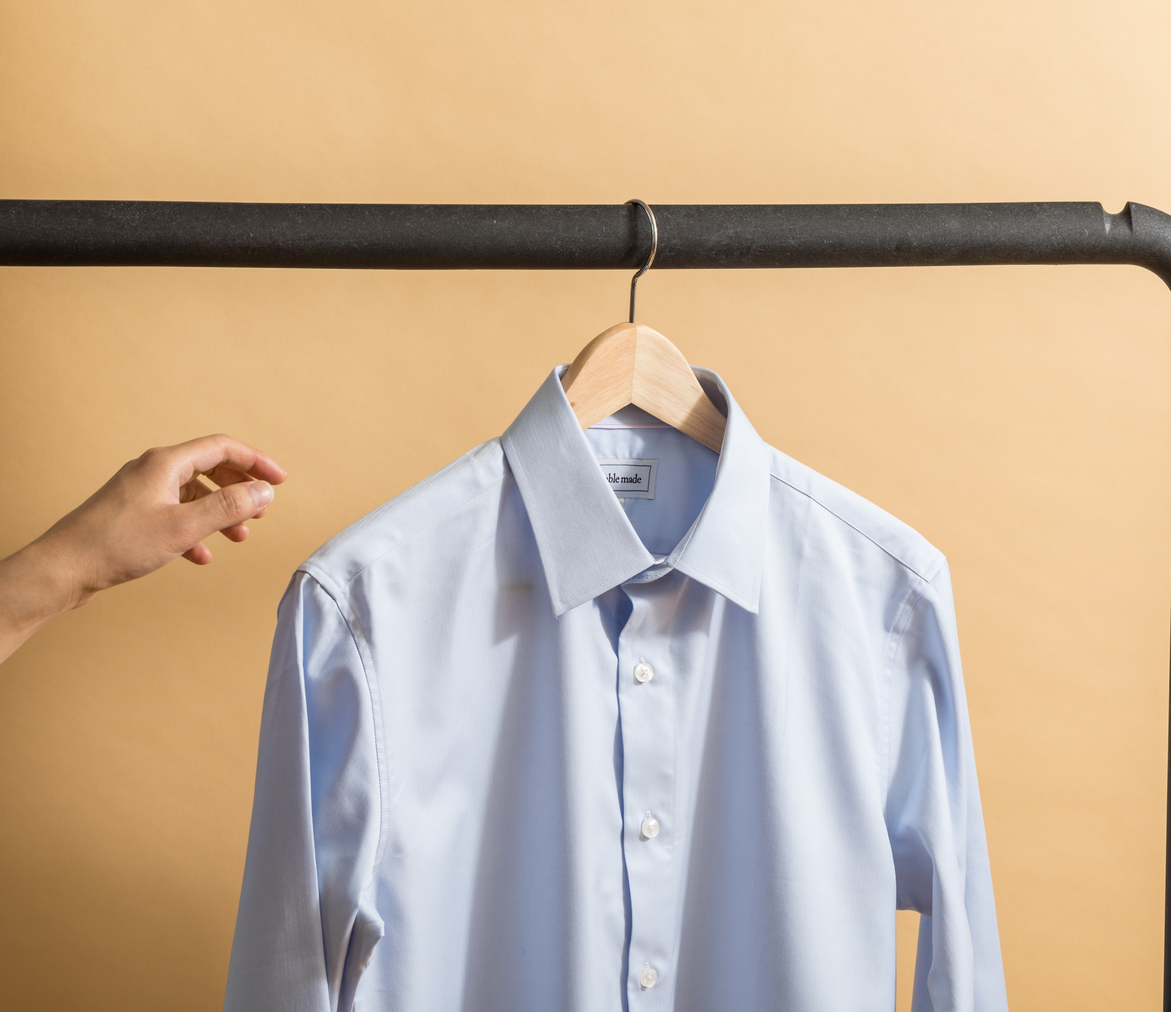
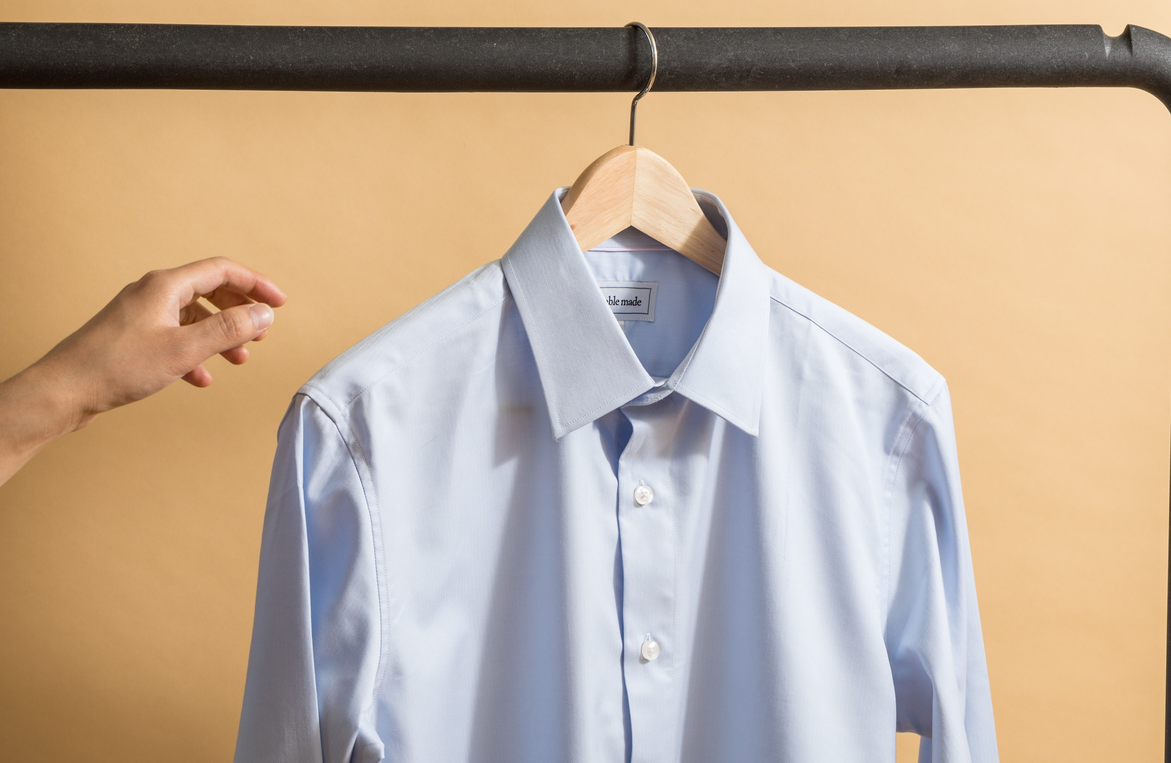
done with the men's wear

diff --git a/src/components/Layout/Main/Collections/Men's Wear/Men.js b/src/components/Layout/Main/Collections/Men's Wear/Men.js
@@ -9,7 +9,7 @@ import men7 from "../../../../../assets/men7.jpg";
 import men8 from "../../../../../assets/men8.jpg";
 import men9 from "../../../../../assets/men9.jpg";
 import men10 from "../../../../../assets/men10.jpg";
-// import men11 from "../../../../../assets/men11.jpg";
+import men11 from "../../../../../assets/men11.jpg";
 // import men12 from "../../../../../assets/men12.jpg";
 import MensWear from "../Men's Wear/MensWear";
 
@@ -18,102 +18,105 @@ const dummy_Wears = [
     id: 1,
     img: men1,
     name: "Men's wear",
-    amount: 25.7,
-    brand: "Gucci & Gabbanna",
-    reviews: "41k customers review",
+    amount: 78.71,
+    description: "Silky Top",
+    brand: "Fendi",
+    reviews: "(41k) customers review",
   },
   {
     id: 2,
     img: men2,
     name: "Men's wear",
-    amount: 25.7,
-    brand: "Gucci & Gabbanna",
-    reviews: "41k customers review",
+    amount: 90.35,
+    description: "Hoods and Shorts",
+    brand: "Dolce & Gabbana",
+    reviews: "(41k) customers review",
   },
   {
     id: 3,
     img: men3,
     name: "Men's wear",
-    amount: 25.7,
-    brand: "Gucci & Gabbanna",
-    reviews: "41k customers review",
+    amount: 45.56,
+    description: "Fits Top",
+    brand: "Dior",
+    reviews: "(41k) customers review",
   },
   {
     id: 4,
     img: men4,
     name: "Men's wear",
-    amount: 25.7,
-    brand: "Gucci & Gabbanna",
-    reviews: "41k customers review",
+    amount: 65.62,
+    description: "Corporate Shirt",
+    brand: "Valentino",
+    reviews: "(41k) customers review",
   },
   {
     id: 5,
     img: men5,
     name: "Men's wear",
-    amount: 25.7,
-    brand: "Gucci & Gabbanna",
-    reviews: "41k customers review",
+    amount: 75.2,
+    description: "Soft Blue Top",
+    brand: "Prada",
+    reviews: "(41k) customers review",
   },
   {
     id: 6,
     img: men6,
     name: "Men's wear",
-    amount: 25.7,
-    brand: "Gucci & Gabbanna",
-    reviews: "41k customers review",
+    amount: 180.8,
+    description: "Jean and Jacket",
+    brand: "Lacoste",
+    reviews: "(41k) customers review",
   },
   {
     id: 7,
     img: men7,
     name: "Men's wear",
-    amount: 25.7,
-    brand: "Gucci & Gabbanna",
-    reviews: "41k customers review",
+    amount: 35.99,
+    description: "Sheer Gray Top",
+    brand: "Givenchy",
+    reviews: "(41k) customers review",
   },
   {
     id: 8,
     img: men8,
     name: "Men's wear",
-    amount: 25.7,
-    brand: "Gucci & Gabbanna",
-    reviews: "41k customers review",
+    amount: 50.8,
+    description: "Thick black Top",
+    brand: "Louis Vuitton",
+    reviews: "(41k) customers review",
   },
   {
     id: 9,
     img: men9,
     name: "Men's wear",
-    amount: 25.7,
-    brand: "Gucci & Gabbanna",
-    reviews: "41k customers review",
+    amount: 200.4,
+    description: "Nice Brown Suit",
+    brand: "Burberry",
+    reviews: "(41k) customers review",
   },
   {
     id: 10,
     img: men10,
     name: "Men's wear",
-    amount: 25.7,
-    brand: "Gucci & Gabbanna",
-    reviews: "41k customers review",
+    amount: 105.79,
+    description: "Jacket and  Top",
+    brand: "Armani",
+    reviews: "(41k) customers review",
   },
-  // {
-  //   id: 11,
-  //   img: men11,
-  //   name: "Men's wear",
-  //   amount: 25.7,
-  //   brand: "Gucci & Gabbanna",
-  //   reviews: "41k customers review",
-  // },
-  // {
-  //   id: 12,
-  //   img: men12,
-  //   name: "Men's wear",
-  //   amount: 25.7,
-  //   brand: "Gucci & Gabbanna",
-  //   reviews: "41k customers review",
-  // },
+  {
+    id: 11,
+    img: men11,
+    name: "Men's wear",
+    amount: 60.92,
+    description: "Thin Top",
+    brand: "H&M",
+    reviews: "(41k) customers review",
+  },
 ];
 const Men = () => {
   return (
-    <div>
+    <div className="overflow-hidden w-full">
       <MensWear wears={dummy_Wears} />
     </div>
   );

diff --git a/src/components/Layout/Main/Collections/Arrivals/Arrival.js b/src/components/Layout/Main/Collections/Arrivals/Arrival.js
@@ -1,10 +1,88 @@
-import React from "react";
+import React, { useState } from "react";
 import Men from "../Men's Wear/Men";
+import Women from "../Women's Wear/Women";
 
 const Arrival = () => {
+  const [tab, setTab] = useState(1);
+
+  const handleTab = (tabs) => {
+    setTab(tabs);
+  };
   return (
     <div className="">
-      <Men />
+      <h2 className="text-[#484848] text-[2.85rem] text-center font-normal pt-[4rem] ">
+        New Arrivals
+      </h2>
+      <p className="text-[#8A8A8A] text-[1rem] text-center font-normal leading-[1.85rem] py-[0.5rem] mb-[2rem]">
+        Lorem ipsum dolor sit amet, consectetur adipiscing elit. Scelerisque
+        duis
+        <br /> ultrices sollicitudin aliquam sem. Scelerisque duis ultrices
+        sollicitudin{" "}
+      </p>
+      <div className=" max-w-[75rem] m-auto">
+        <ul className="flex justify-around">
+          <li
+            onClick={() => {
+              handleTab(1);
+            }}
+            className={
+              tab === 1
+                ? "active bg-black rounded-lg px-8 py-2 cursor-pointer text-[1rem] text-white"
+                : "bg-[#FAFAFA] text-[#8A8A8A] px-8 py-2 rounded-lg"
+            }
+            // style={{ marginRight: "5rem" }}
+          >
+            Men's Fashion
+          </li>
+
+          <li
+            onClick={() => {
+              handleTab(2);
+            }}
+            className={
+              tab === 2
+                ? "active bg-black rounded-lg px-8 py-2 cursor-pointer text-[1rem] text-white"
+                : "bg-[#FAFAFA] text-[#8A8A8A] px-8 py-2 rounded-lg"
+            }
+            // style={{ marginRight: "5rem" }}
+          >
+            Women's Fashion
+          </li>
+
+          <li
+            onClick={() => {
+              handleTab(3);
+            }}
+            className={
+              tab === 3
+                ? "active bg-black rounded-lg px-8 py-2 cursor-pointer text-[1rem] text-white"
+                : "bg-[#FAFAFA] text-[#8A8A8A] px-8 py-2 rounded-lg"
+            }
+          >
+            Women's Accessories
+          </li>
+
+          <li
+            onClick={() => {
+              handleTab(4);
+            }}
+            className={
+              tab === 4
+                ? "active bg-black rounded-lg px-8 py-2 cursor-pointer text-[1rem] text-white"
+                : "bg-[#FAFAFA] text-[#8A8A8A] px-8 py-2 rounded-lg"
+            }
+          >
+            Men's Accessories
+          </li>
+        </ul>
+
+        <div>
+          {tab === 1 && <Men />}
+          {tab === 2 && <Women />}
+          {/* {tab === 3 ? <Men /> : ""}
+        {tab === 4 ? "<Men />" : ""} */}
+        </div>
+      </div>
     </div>
   );
 };

diff --git a/src/components/Layout/Main/Collections/Men's Wear/MensWear.js b/src/components/Layout/Main/Collections/Men's Wear/MensWear.js
@@ -1,20 +1,55 @@
 import React from "react";
 import Card from "../../../../UI/Cards";
+import { CiStar } from "react-icons/ci";
 
 const MensWear = (props) => {
   return (
-    <section>
-      <ul className="grid grid-cols-3 gap-[2rem] place-items-center">
+    <section className="max-w-[70rem] m-auto  my-[2rem]">
+      <ul className="grid grid-cols-3 gap-[5rem]  place-items-center">
         {props.wears.map((items) => (
           <Card
             key={items.id}
-            className="w-[25rem] h-[28rem] bg-white shadow-xl"
+            className="w-[21rem] h-[24rem] bg-white shadow-2xl rounded-2xl "
           >
             <img
               src={items.img}
               alt="men's wears"
-              className="w-[20rem] h-[15rem] mx-auto p-5 rounded-lg"
+              className="w-[20rem] h-[15rem] mx-auto px-5 rounded-3xl object-contain"
             />
+            <div className="flex justify-between pr-[2rem]">
+              <h1 className="px-[2rem] -mt-5 text-[1.25rem] text-[#484848] font-medium leading-normal">
+                {items.description}
+              </h1>
+              <div className="flex -mt-3">
+                <CiStar className="text-xl" />
+                <CiStar className="text-xl" />
+                <CiStar className="text-xl" />
+              </div>
+            </div>
+
+            <p className="text-[#8A8A8A] px-[2rem] text-[0.75rem] font-medium">
+              {items.brand}
+            </p>
+            <div className="flex my-4 space-x-[1.7rem]">
+              <p className="px-[2rem] text-[0.75rem] text-[#484848] font-medium">
+                {items.reviews}
+              </p>
+              <button className="px-5 rounded-2xl -m-2 bg-[#484848] text-white ">
+                Add +
+              </button>
+            </div>
+
+            <div className="flex space-x-[8rem] mt-7">
+              <h4 className="px-[2rem] text-[#484848] text-[1.5rem] tracking-[-0.015rem] font-medium ">
+                ${items.amount}
+              </h4>
+              <select className="border-2 border-black cursor-pointer rounded-md">
+                <option value="s">s</option>
+                <option value="m">m</option>
+                <option value="xl">xl</option>
+                <option value="xxl">xxl</option>
+              </select>
+            </div>
           </Card>
         ))}
       </ul>

diff --git a/src/App.js b/src/App.js
@@ -1,9 +1,10 @@
 import "./App.css";
 import Header from "./components/Layout/Header/Header";
 import Logo from "./components/Layout/Header/Logo";
-import Men from "./components/Layout/Main/Collections/Men's Wear/Men";
+// import Men from "./components/Layout/Main/Collections/Men's Wear/Men";
 import Main from "./components/Layout/Main/Main";
 import Nav from "./components/Layout/Navbar/Nav";
+import Arrival from "./components/Layout/Main/Collections/Arrivals/Arrival";
 
 function App() {
   return (
@@ -14,7 +15,8 @@ function App() {
         <Header />
         <Logo />
         <Main />
-        <Men />
+        <Arrival />
+        {/* <Men /> */}
       </div>
     </>
   );

diff --git a/src/components/Layout/Main/Collections/Women's Wear/Women.js b/src/components/Layout/Main/Collections/Women's Wear/Women.js
@@ -1,0 +1,7 @@
+import React from "react";
+
+const Women = () => {
+  return <div>Women</div>;
+};
+
+export default Women;
